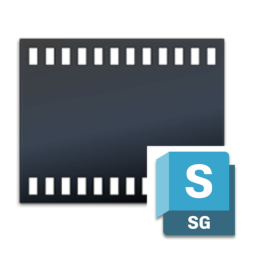
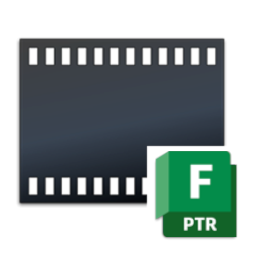
SG-34306 - Rebranding (#14)
* Change all the shotgrid/shotgun occurrences in the repository.

* Update logos.

* Update text occurrences.

* Update text.

* Update text.

Changed region(s): [[0.5938, 0.5625, 0.9375, 0.9375]]

diff --git a/app.py b/app.py
@@ -29,7 +29,7 @@ class HieroOpenInShotgun(Application):
         """
         Initialization
         """
-        self.engine.register_command("Open in Shotgun", self.callback)
+        self.engine.register_command("Open in Flow Production Tracking", self.callback)
 
     @property
     def context_change_allowed(self):
@@ -89,7 +89,7 @@ class HieroOpenInShotgun(Application):
         sequence_name = sequence.name()
 
         self.log_debug(
-            "Looking for a shot '%s' with a sequence '%s' in ShotGrid..."
+            "Looking for a shot '%s' with a sequence '%s' in Flow Production Tracking..."
             % (shot_name, sequence_name)
         )
 
@@ -101,7 +101,7 @@ class HieroOpenInShotgun(Application):
 
         if sg_data is None:
             raise TankError(
-                "Could not find a Shot in ShotGrid with name '%s' associated with a Sequence '%s'!"
+                "Could not find a Shot in Flow Production Tracking with name '%s' associated with a Sequence '%s'!"
                 % (shot_name, sequence_name)
             )
 

diff --git a/SECURITY.md b/SECURITY.md
@@ -4,18 +4,18 @@
 
 At Autodesk, we know that the security of your data is critical to your studio’s
 operation.
-As the industry shifts to the cloud, ShotGrid knows that security and service
+As the industry shifts to the cloud, Flow Production Tracking knows that security and service
 models are more important than ever.
 
 The confidentiality, integrity, and availability of your content is at the top
 of our priority list.
-Not only do we have a team of ShotGrid engineers dedicated to platform security
+Not only do we have a team of Flow Production Tracking engineers dedicated to platform security
 and performance, we are also backed by Autodesk’s security team, also invests
 heavily in the security for broad range of industries and customers.
 We constantly reassess, develop, and improve our risk management program because
 we know that the landscape of security is ever-changing.
 
-If you believe you have found a security vulnerability in any ShotGrid-owned
+If you believe you have found a security vulnerability in any Flow Production Tracking-owned
 repository, please report it to us as described below.
 
 
@@ -32,4 +32,4 @@ configurations, reproduction steps, exploit code, impact, etc.
 
 ## Additional Information
 
-Please check out the [ShotGrid Security White Paper](https://help.autodesk.com/view/SGSUB/ENU/?guid=SG_Administrator_ar_general_security_ar_security_white_paper_html).
+Please check out the [Flow Production Tracking Security White Paper](https://help.autodesk.com/view/SGSUB/ENU/?guid=SG_Administrator_ar_general_security_ar_security_white_paper_html).

diff --git a/README.md b/README.md
@@ -4,11 +4,11 @@
 [![Linting](https://img.shields.io/badge/PEP8%20by-Hound%20CI-a873d1.svg)](https://houndci.com)
 
 ## Documentation
-This repository is a part of the ShotGrid Pipeline Toolkit.
+This repository is a part of the Flow Production Tracking Toolkit.
 
 - For more information about this app and for release notes, *see the wiki section*.
 - For general information and documentation, click here: https://help.autodesk.com/view/SGDEV/ENU/?contextId=SA_INTEGRATIONS_USER_GUIDE
-- For information about ShotGrid in general, click here: https://help.autodesk.com/view/SGSUB/ENU/
+- For information about Flow Production Tracking in general, click here: https://help.autodesk.com/view/SGSUB/ENU/
 
 ## Using this app in your Setup
 All the apps that are part of our standard app suite are pushed to our App Store.
